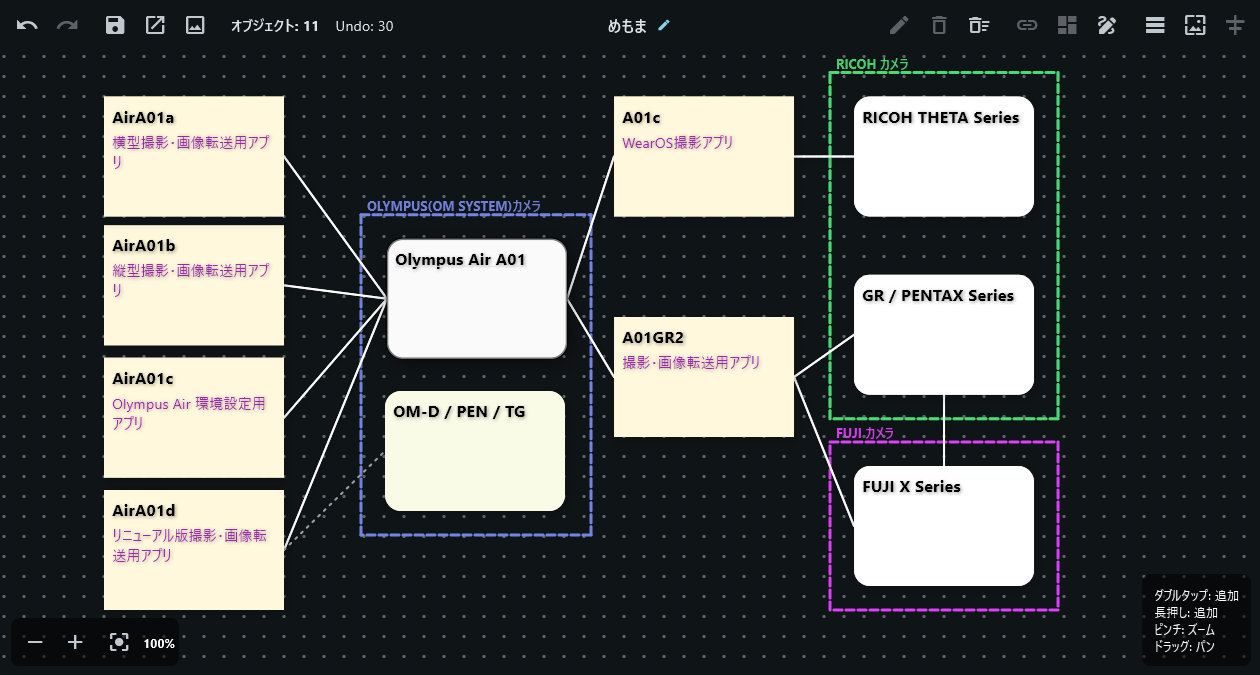
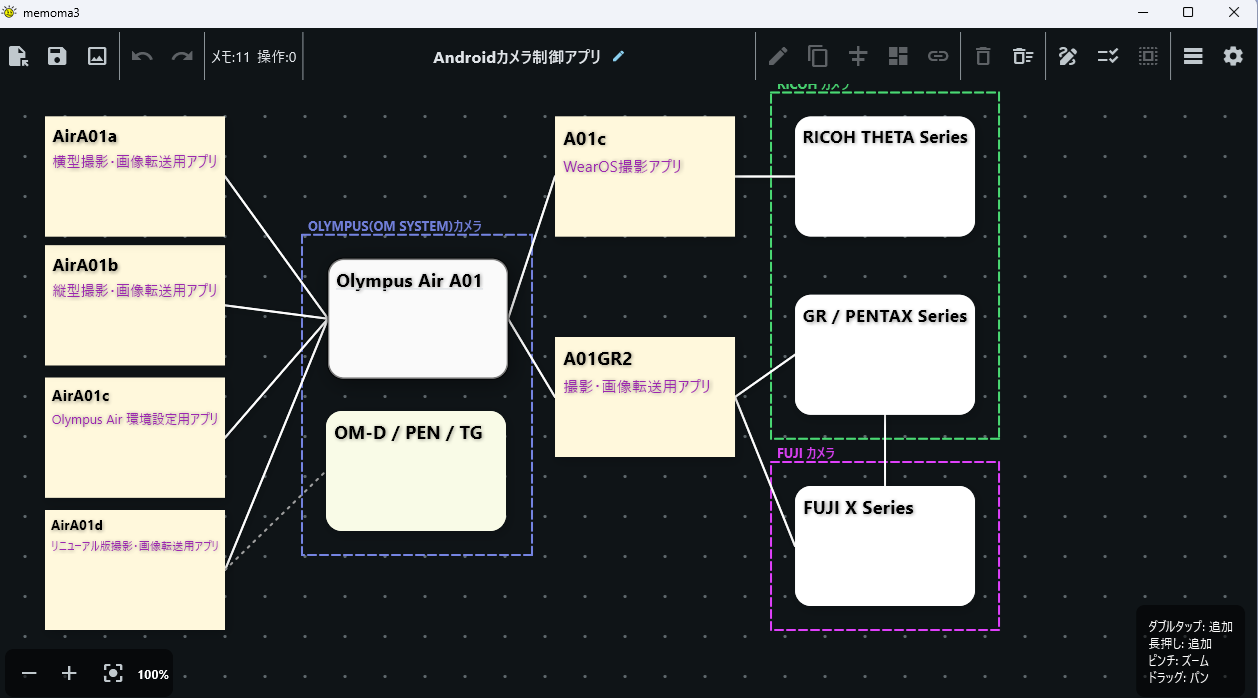
ドキュメンテーションの更新。

diff --git a/README.md b/README.md
@@ -271,15 +271,42 @@ lib/
 │   ├── storage_service.dart              # JSON ファイルの保存・読み込み
 │   ├── canvas_export_service.dart        # PNG / PDF エクスポート
 │   ├── background_persistence_service.dart # 背景設定の永続化
-│   └── canvas_persistence_service.dart   # キャンバス状態・キャンバス名の自動永続化（hive_ce）
+│   ├── canvas_persistence_service.dart   # キャンバス状態・キャンバス名の自動永続化（hive_ce）
+│   └── action_bar_page_persistence_service.dart # アクションバーのページ表示状態の永続化
 ├── providers/
-│   ├── canvas_provider.dart       # CanvasNotifier, CanvasNameNotifier, BackgroundConfigNotifier, AlignMode
-│   └── canvas_state.dart          # キャンバス全体の immutable な状態モデル
+│   ├── canvas_state.dart          # キャンバス全体の immutable な状態モデル
+│   ├── canvas_provider.dart       # CanvasNotifier（シェル）, CanvasNameNotifier, BackgroundConfigNotifier
+│   ├── canvas_id.dart             # ID 生成ヘルパー
+│   ├── canvas_object_core.dart    # CanvasObjectCore（フィールド + 基本 CRUD）
+│   ├── canvas_object_drag.dart    # CanvasObjectDrag（ドラッグ操作）
+│   ├── canvas_object_selection.dart # CanvasObjectSelection（選択操作）
+│   ├── canvas_object_align.dart   # CanvasObjectAlign（整列）+ AlignMode
+│   ├── canvas_connection_ops.dart # CanvasConnectionOps（接続線操作）
+│   ├── canvas_group_ops.dart      # CanvasGroupOps（グループ枠操作）
+│   └── canvas_history_ops.dart    # CanvasHistoryOps（Undo/Redo・JSON・生成）
 └── views/
-    ├── main_canvas_screen.dart    # InteractiveViewer を含むメイン画面
-    ├── object_list_screen.dart    # オブジェクト一覧画面（CSV エクスポート）
+    ├── main_canvas_screen.dart    # InteractiveViewer を含むメイン画面（シェル）
+    ├── main_canvas/               # メインキャンバスの実装
+    │   ├── main_canvas_state.dart     # MainCanvasState（ロジック mixin）
+    │   ├── main_canvas_ui.dart        # MainCanvasUi（UI mixin）
+    │   ├── zoom_control_panel.dart    # ズーム操作パネル
+    │   ├── build_hint_card.dart       # ビルド情報カード
+    │   ├── connection_menu_dialog.dart    # 接続線メニュー表示
+    │   └── connection_menu_positioner.dart # 接続線メニューの位置調整
+    ├── object_list_screen.dart    # オブジェクト一覧画面（シェル、CSV エクスポート）
+    ├── object_list/               # オブジェクト一覧の実装
+    │   ├── object_list_controller.dart    # フィルタ / ソート / CSV 生成
+    │   ├── object_list_edit_actions.dart  # 編集・ダイアログ系 mixin
+    │   ├── object_list_table_ui.dart      # テーブル UI mixin
+    │   ├── object_list_ui.dart            # 列定義・定数
+    │   ├── object_list_editable_label_cell.dart # セル内編集
+    │   ├── object_list_link_text_cell.dart      # URL リンクセル
+    │   ├── object_list_sort_header.dart         # ソートヘッダ
+    │   └── object_list_multi_select_dropdown.dart # 複数選択ドロップダウン
     └── widgets/
-        ├── top_action_bar.dart          # 上部ツールバー
+        ├── top_action_bar.dart          # 上部ツールバー（コンテナ）
+        ├── top_action_bar_left.dart     # 上部ツールバー左側（ファイル操作 / Undo / 状態表示）
+        ├── top_action_bar_right.dart    # 上部ツールバー右側（編集 / モード切替 / 一覧）
         ├── note_object_widget.dart      # 各オブジェクトの描画・ドラッグ操作
         ├── note_shape_painter.dart      # オブジェクト形状の描画 (CustomPainter)
         ├── object_edit_dialog.dart      # オブジェクト情報の編集ダイアログ
@@ -304,10 +331,12 @@ lib/
 | `services/canvas_export_service.dart` | `CanvasExportService` | キャンバスを PNG / PDF にエクスポート。 |
 | `services/background_persistence_service.dart` | `BackgroundPersistenceService` | 背景ガイド設定の `shared_preferences` への永続化・復元。 |
 | `services/canvas_persistence_service.dart` | `CanvasPersistenceService` | キャンバス状態・キャンバス名の `hive_ce` への自動・逐次永続化・復元（デバウンス付き）。 |
+| `services/action_bar_page_persistence_service.dart` | `ActionBarPagePersistenceService` | 幅が狭いときの `TopActionBar` の 2 ページ表示で、現在表示中のページ（左 / 右）を `shared_preferences` に記憶する。 |
 | `providers/canvas_state.dart` | `CanvasState` | オブジェクト・接続線・グループ・選択 ID・Undo/Redo 履歴スタック（最大 30 件）を保持する不変モデル。 |
-| `providers/canvas_provider.dart` | `CanvasNotifier` | オブジェクト・接続線・グループの CRUD、選択、整列、複製、Undo/Redo、JSON 復元/エクスポートを管理。最後に設定された形状を保持し、新規オブジェクトのデフォルト形状として使用する。 |
-| `views/main_canvas_screen.dart` | `MainCanvasScreen` | `InteractiveViewer` を用いたメイン画面。ダブルタップ/長押しでオブジェクト追加。左下にズーム制御パネルを配置。 |
-| `views/object_list_screen.dart` | `ObjectListScreen` | オブジェクト一覧画面。フィルタ・ソート・中心移動・複製・削除・CSV エクスポートを提供。 |
+| `providers/canvas_provider.dart` | `CanvasNotifier` | オブジェクト・接続線・グループの CRUD、選択、整列、複製、Undo/Redo、JSON 復元/エクスポートを管理。最後に設定された形状を保持し、新規オブジェクトのデフォルト形状として使用する。実装は 7 つの mixin（`canvas_object_core/drag/selection/align.dart`、`canvas_connection_ops.dart`、`canvas_group_ops.dart`、`canvas_history_ops.dart`）に分離。 |
+| `providers/canvas_id.dart` | `generateId` 等 | ID 生成ヘルパー（マイクロ秒 + カウンタで一意性を保証）。 |
+| `views/main_canvas_screen.dart` | `MainCanvasScreen` | `InteractiveViewer` を用いたメイン画面。ダブルタップ/長押しでオブジェクト追加。左下にズーム制御パネルを配置。ロジックは `main_canvas/main_canvas_state.dart`、UI は `main_canvas/main_canvas_ui.dart` に分離。 |
+| `views/object_list_screen.dart` | `ObjectListScreen` | オブジェクト一覧画面。フィルタ・ソート・中心移動・複製・削除・CSV エクスポートを提供。ロジックは `object_list/object_list_controller.dart`、編集系は `object_list/object_list_edit_actions.dart`、テーブル UI は `object_list/object_list_table_ui.dart` に分離。 |
 | `views/widgets/note_object_widget.dart` | `NoteObjectWidget` | 1 オブジェクトの描画とドラッグ操作。ズーム補正付き移動。接続モード時は接続先の検出用に使用。長押しで編集ダイアログを表示。選択モード時はタップで選択をトグル（複数選択）。 |
 | `views/widgets/note_shape_painter.dart` | `NoteShapePainter` | 形状（14 種）に応じた背景描画。選択時は四隅の枠線で強調。 |
 | `views/widgets/connection_painter.dart` | `ConnectionPainter` | 2 オブジェクト間を結ぶ接続線の描画。形状（6 種）と線種（4 種）・色に応じた描画。オブジェクトの境界間を結ぶパスを構築する。 |
@@ -317,7 +346,7 @@ lib/
 | `views/widgets/group_edit_dialog.dart` | `GroupEditDialog` | グループの名称・説明・枠線の色を編集するダイアログ。 |
 | `views/widgets/background_grid_painter.dart` | `BackgroundGridOverlay` | 背景グリッド（罫線/ドット）を描画するオーバーレイ。 |
 | `views/widgets/background_settings_dialog.dart` | `BackgroundSettingsDialog` | 背景ガイド（グリッド・背景色・背景画像）を設定するダイアログ。 |
-| `views/widgets/top_action_bar.dart` | `TopActionBar` | 操作カテゴリごとに区切り線で分類し、以下の順で配置: 読み込み/保存/画像・PDF () Undo/Redo () オブジェクト数/操作数 () キャンバス名 () 整列/接続/編集 () 削除/全削除 () グループ化/接続モード/選択モード/全選択 () オブジェクト一覧/背景ガイド設定。 |
+| `views/widgets/top_action_bar.dart` | `TopActionBar` | 操作カテゴリごとに区切り線で分類し、以下の順で配置: 読み込み/保存/画像・PDF () Undo/Redo () オブジェクト数/操作数 () キャンバス名 () 整列/接続/編集 () 削除/全削除 () グループ化/接続モード/選択モード/全選択 () オブジェクト一覧/背景ガイド設定。幅が狭い場合は 2 ページ表示に切替。左側は `top_action_bar_left.dart`、右側は `top_action_bar_right.dart` に分離。 |
 | `views/widgets/object_edit_dialog.dart` | `ObjectEditDialog` | 選択中のオブジェクトの形状・強調・ラベル・詳細・説明・色・ラベル色・説明色・サイズ（0.5〜4倍）・ラベル/説明の文字サイズ（1〜5段階）を編集するダイアログ。`MyCustomColorPicker` を使用。 |
 | `views/widgets/my_custom_color_picker.dart` | `MyCustomColorPicker` | `flex_color_picker` の `ColorPicker` をラップする共通カラーピッカー。カラーホイール・シェード選択・カラーコード・コピー＆ペースト・OK/キャンセルボタンを有効化。全色選択箇所で使用。 |
 

diff --git a/docs/DETAILED_DESIGN.md b/docs/DETAILED_DESIGN.md
@@ -71,16 +71,20 @@
 ### 2.2 `CanvasNotifier`（`providers/canvas_provider.dart`）
 
 - **役割**: キャンバス状態を管理する `Notifier`。オブジェクト・接続線・グループの CRUD、選択、整列、Undo/Redo、ドラッグ中のローカル状態を担当。
-- **ドラッグ関連フィールド**: `localDraftPositions`, `dragStartPositions`, `dragStartCanvas`, `lastAddedId`, `lastShape`。
-- **主要メソッド**:
-  - **オブジェクト**: `addObject`, `updatePosition`, `endDrag`, `setPosition`, `cancelDrag`, `resetDraft`, `clearLocalDrafts`, `bringToFront`, `editObject`, `deleteObject`, `deleteSelected`, `deleteAllObjects`, `makeNewNote`, `updateLastShape`, `duplicateSelected`（選択分複製、右下 20px ずらし・接続線/グループ非引き継ぎ）, `duplicateObject`（単一オブジェクト複製、一覧行用）。
-  - **選択**: `selectObject`, `toggleSelect`, `selectAll`, `clearSelection`, `_setAllSelected`。
-  - **整列**: `alignSelectedToStep`, `alignSelected`。
-  - **接続線**: `addConnection`, `connectSelected`, `updateConnection`, `deleteConnection`。
-  - **グループ**: `createGroup`, `addToGroup`, `updateGroup`, `deleteGroup`, `moveGroup`, `endGroupDrag`, `resetGroupDrafts`。
-  - **Undo/Redo**: `undo`, `redo`。
-  - **永続化**: `loadFromJson`, `exportToJson`, `_deduplicateConnectionIds`, `_deduplicateGroupIds`。
-  - **内部**: `_snap`（位置の丸め）。
+- **構成**: 実装は 7 つの mixin に分離されている（`canvas_provider.dart` 自体は薄いシェル）。
+
+| mixin | ファイル | 担当 |
+| --- | --- | --- |
+| `CanvasObjectCore` | `providers/canvas_object_core.dart` | 共有フィールド（`localDraftPositions`, `dragStartPositions`, `dragStartCanvas`, `lastAddedId`, `lastShape`）と基本 CRUD（`addObject`, `editObject`, `bringToFront`, `deleteSelected`, `duplicateSelected`（選択分複製、右下 20px ずらし・接続線/グループ非引き継ぎ）, `duplicateObject`（単一オブジェクト複製、一覧行用）, `deleteObject`, `deleteAllObjects`, `updateLastShape`） |
+| `CanvasObjectDrag` | `providers/canvas_object_drag.dart` | ドラッグ操作（`updatePosition`, `endDrag`, `setPosition`, `cancelDrag`, `resetDraft`, `resetGroupDrafts`, `clearLocalDrafts`） |
+| `CanvasObjectSelection` | `providers/canvas_object_selection.dart` | 選択操作（`selectObject`, `toggleSelect`, `selectedCount`, `selectAll`, `clearSelection`） |
+| `CanvasObjectAlign` | `providers/canvas_object_align.dart` | 整列（`alignSelectedToStep`, `alignSelected`）と `AlignMode` 列挙型 |
+| `CanvasConnectionOps` | `providers/canvas_connection_ops.dart` | 接続線（`addConnection`, `connectSelected`, `updateConnection`, `deleteConnection`） |
+| `CanvasGroupOps` | `providers/canvas_group_ops.dart` | グループ（`createGroup`, `addToGroup`, `updateGroup`, `deleteGroup`, `moveGroup`, `endGroupDrag`） |
+| `CanvasHistoryOps` | `providers/canvas_history_ops.dart` | 履歴・データ（`undo`, `redo`, `loadFromJson`, `exportToJson`, `makeNewNote`） |
+
+- **ID 生成**: `providers/canvas_id.dart` の `generateId` / `generateConnectionId` / `generateGroupId`（マイクロ秒 + カウンタで一意性を保証）。
+- **内部ヘルパー**: `_snap`（位置の丸め、`CanvasObjectAlign` 内）、`_setAllSelected`（`CanvasObjectSelection` 内）、`_deduplicateConnectionIds` / `_deduplicateGroupIds`（`CanvasHistoryOps` 内）。
 
 ### 2.3 `CanvasNameNotifier`（`providers/canvas_provider.dart`）
 
@@ -92,10 +96,11 @@
 - **役割**: 背景ガイド設定を管理する `Notifier`。`shared_preferences` への永続化と復元を担当。
 - **状態**: `BackgroundConfig`。
 
-### 2.5 `AlignMode`（`providers/canvas_provider.dart`）
+### 2.5 `AlignMode`（`providers/canvas_object_align.dart`）
 
 - **役割**: 整列モードを列挙。
 - **値**: `left`, `right`, `top`, `bottom`, `distributeHorizontal`, `distributeVertical`。
+- **備考**: `canvas_provider.dart` が `export ... show AlignMode;` により再エクスポートしているため、従来どおり `canvas_provider.dart` 経由で参照できる。
 
 ## 3. services（I/O・永続化層）
 
@@ -127,29 +132,47 @@
 - **接続**: `MainCanvasScreen` が `ref.listen(canvasNotifierProvider, ...)` で状態変更を検知し `scheduleSaveState` を呼ぶ。`didChangeAppLifecycleState` で `paused` / `hidden` 時に `flush()`。起動時 `initState` で `loadName` / `loadState` を復元。
 - **初期化**: `main.dart` で `Hive.init`（Web はパス不要、それ以外は `path_provider` のアプリケーションサポートディレクトリ）。
 
+### 3.5 `ActionBarPagePersistenceService`（`services/action_bar_page_persistence_service.dart`）
+
+- **役割**: 幅が狭いときの `TopActionBar` の 2 ページ表示で、現在表示中のページ（左 / 右）を `shared_preferences` に記憶する。
+- **キー**: `memoma3.action_bar_page`。
+- **主要メソッド**: `load()` / `save()`。
+
 ## 4. views（画面層）
 
 ### 4.1 `MainCanvasScreen`（`views/main_canvas_screen.dart`）
 
 - **役割**: アプリのメイン画面。キャンバスの描画、パン・ズーム、オブジェクト操作、接続モード、整列、エクスポート、背景設定の入口。
 - **定数**: `kCanvasSize = Size(50000, 50000)`。
+- **構成**: state クラスは 2 つの mixin に分離されている（`main_canvas_screen.dart` 自体は薄いシェル）。
+  - `MainCanvasState`（`views/main_canvas/main_canvas_state.dart`）: フィールド・ライフサイクル・座標変換・モード切替・グループ枠・接続線ロジック。
+  - `MainCanvasUi`（`views/main_canvas/main_canvas_ui.dart`）: `build`（Scaffold / TopActionBar / キャンバス描画）。
 - **描画順序（Z 順）**: 背景色 → 背景画像 → グリッド → グループ枠 → 接続線 → オブジェクト。
-- **内部ウィジェット**: `_ZoomControlPanel`（ズーム操作パネル）。
+- **関連ウィジェット**（`views/main_canvas/`）: `ZoomControlPanel`（ズーム操作パネル）、`BuildHintCard`（ビルド情報カード）、`ConnectionMenuPositioner`（接続線メニューの位置調整）、`showConnectionMenuDialog`（接続線コンテキストメニュー表示）。
 
 ### 4.2 `ObjectListScreen`（`views/object_list_screen.dart`）
 
 - **役割**: オブジェクト一覧画面。全オブジェクトの属性を表示・編集し、CSV エクスポートを提供。
+- **構成**: state クラスは 2 つの mixin に分離され、ロジックは `ObjectListController`（`views/object_list/object_list_controller.dart`）に集約されている。
+  - `ObjectListEditActions`（`views/object_list/object_list_edit_actions.dart`）: 編集・ダイアログ系メソッド。
+  - `ObjectListTableUi`（`views/object_list/object_list_table_ui.dart`）: テーブル・フィルタバーの UI 構築。
+  - `ObjectListController`: フィルタ / ソート / CSV 生成（`filteredAndSorted`, `buildCsv`, `colorToHex` 等）。
 - **列**: No. / 名称（左固定）+ 説明 / 詳細 / グループ / 形状 / 強調 / 色 / 接続(from/to) / X / Y / サイズ / 中心 / 複製 / 削除（右スクロール）。
 - **フィルタ**: 名称（テキスト）、形状（複数選択）、強調（複数選択）。
 - **ソート**: 列ヘッダクリックで昇降順切替（サイズ列もソート対象）。
 - **複製**: 行の「複製」ボタンで `duplicateObject(id)` を呼び、そのオブジェクトを複製（右下 20px ずらし）。
-- **CSV**: `_buildCsv`（UTF-8 BOM 付き、`_csvEscape` でエスケープ、`_colorToHex` で #RRGGBB、サイズ列は `1.0倍` 形式）。
+- **CSV**: `ObjectListController.buildCsv`（UTF-8 BOM 付き、`_csvEscape` でエスケープ、`colorToHex` で #RRGGBB、サイズ列は `1.0倍` 形式）。
+- **関連ウィジェット**（`views/object_list/`）: `EditableLabelCell`（セル内編集）、`LinkTextCell`（URL リンク）、`SortHeader`（ソートヘッダ）、`MultiSelectDropdown`（複数選択ドロップダウン）。
 
 ## 5. widgets（部品層）
 
 ### 5.1 `TopActionBar`（`widgets/top_action_bar.dart`）
 
 - **役割**: 上部アクションバー。操作カテゴリごとに区切り線で分類し、以下の順で配置: 読み込み / 保存 / 画像・PDF エクスポート | Undo / Redo | オブジェクト数 / 操作数 | キャンバス名 | 整列 / 接続 / 編集 | 削除 / 全削除 | グループ化 / 接続モード / 選択モード / 全選択 | オブジェクト一覧 / 背景ガイド設定。
+- **構成**: 幅が広い場合は 1 行表示、狭い場合は 2 ページ表示（`kActionBarMinWidth = 1200.0` を基準に切替）。
+  - `TopActionBarLeft`（`widgets/top_action_bar_left.dart`）: 読み込み / 保存 / Undo / Redo / 状態表示 / キャンバス名。
+  - `TopActionBarRight`（`widgets/top_action_bar_right.dart`）: 整列 / 接続 / 編集 / 削除 / モード切替 / 一覧 / 背景設定。
+  - ページ表示の左右位置は `ActionBarPagePersistenceService`（`services/action_bar_page_persistence_service.dart`）で記憶される。
 - **選択モード**: 「選択モード」ボタンでキーボードのない環境向けの複数選択モードを切替。「全選択」ボタンは常時表示され、選択モード中かつオブジェクトがあるときのみ有効。
 
 ### 5.2 `NoteObjectWidget`（`widgets/note_object_widget.dart`）

diff --git a/docs/DEVELOPMENT.md b/docs/DEVELOPMENT.md
@@ -41,17 +41,44 @@ memoma3/
 │   │   └── background_config.dart# BackgroundConfig, GridType
 │   ├── providers/                # 状態・ロジック層
 │   │   ├── canvas_state.dart     # CanvasState
-│   │   └── canvas_provider.dart  # CanvasNotifier, CanvasNameNotifier, BackgroundConfigNotifier, AlignMode
+│   │   ├── canvas_provider.dart  # CanvasNotifier（シェル）, CanvasNameNotifier, BackgroundConfigNotifier
+│   │   ├── canvas_id.dart        # ID 生成ヘルパー
+│   │   ├── canvas_object_core.dart     # CanvasObjectCore（フィールド + 基本 CRUD）
+│   │   ├── canvas_object_drag.dart     # CanvasObjectDrag（ドラッグ操作）
+│   │   ├── canvas_object_selection.dart# CanvasObjectSelection（選択操作）
+│   │   ├── canvas_object_align.dart    # CanvasObjectAlign（整列）+ AlignMode
+│   │   ├── canvas_connection_ops.dart  # CanvasConnectionOps（接続線操作）
+│   │   ├── canvas_group_ops.dart       # CanvasGroupOps（グループ枠操作）
+│   │   └── canvas_history_ops.dart     # CanvasHistoryOps（Undo/Redo・JSON・生成）
 │   ├── services/                 # I/O・永続化層
 │   │   ├── storage_service.dart          # JSON 保存・読み込み
 │   │   ├── canvas_export_service.dart    # PNG / PDF エクスポート
 │   │   ├── background_persistence_service.dart # 背景設定の永続化
-│   │   └── canvas_persistence_service.dart # キャンバス状態・キャンバス名の自動永続化（hive_ce）
+│   │   ├── canvas_persistence_service.dart # キャンバス状態・キャンバス名の自動永続化（hive_ce）
+│   │   └── action_bar_page_persistence_service.dart # アクションバーのページ表示状態の永続化
 │   ├── views/                    # 画面層
-│   │   ├── main_canvas_screen.dart       # メインキャンバス画面
-│   │   ├── object_list_screen.dart       # オブジェクト一覧画面
+│   │   ├── main_canvas_screen.dart       # メインキャンバス画面（シェル）
+│   │   ├── main_canvas/                  # メインキャンバスの実装
+│   │   │   ├── main_canvas_state.dart    # MainCanvasState（ロジック mixin）
+│   │   │   ├── main_canvas_ui.dart       # MainCanvasUi（UI mixin）
+│   │   │   ├── zoom_control_panel.dart   # ズーム操作パネル
+│   │   │   ├── build_hint_card.dart      # ビルド情報カード
+│   │   │   ├── connection_menu_dialog.dart     # 接続線メニュー表示
+│   │   │   └── connection_menu_positioner.dart # 接続線メニューの位置調整
+│   │   ├── object_list_screen.dart       # オブジェクト一覧画面（シェル）
+│   │   ├── object_list/                  # オブジェクト一覧の実装
+│   │   │   ├── object_list_controller.dart     # フィルタ / ソート / CSV 生成
+│   │   │   ├── object_list_edit_actions.dart   # 編集・ダイアログ系 mixin
+│   │   │   ├── object_list_table_ui.dart       # テーブル UI mixin
+│   │   │   ├── object_list_ui.dart             # 列定義・定数
+│   │   │   ├── object_list_editable_label_cell.dart # セル内編集
+│   │   │   ├── object_list_link_text_cell.dart     # URL リンクセル
+│   │   │   ├── object_list_sort_header.dart        # ソートヘッダ
+│   │   │   └── object_list_multi_select_dropdown.dart # 複数選択ドロップダウン
 │   │   └── widgets/              # 部品層
 │   │       ├── top_action_bar.dart
+│   │       ├── top_action_bar_left.dart
+│   │       ├── top_action_bar_right.dart
 │   │       ├── note_object_widget.dart
 │   │       ├── note_shape_painter.dart
 │   │       ├── object_edit_dialog.dart

diff --git a/docs/ARCHITECTURE.md b/docs/ARCHITECTURE.md
@@ -22,7 +22,8 @@
 │  services  (I/O・永続化層)                                │
 │  StorageService, CanvasExportService,                    │
 │  BackgroundPersistenceService,                           │
-│  CanvasPersistenceService                                │
+│  CanvasPersistenceService,                               │
+│  ActionBarPagePersistenceService                         │
 ├─────────────────────────────────────────────────────────┤
 │  models  (データ層)                                       │
 │  NoteObject, Connection, GroupFrame, BackgroundConfig    │
@@ -149,15 +150,20 @@ BackgroundConfig
 
 ### 4.2 CanvasNotifier の主なメソッド
 
-| カテゴリ | メソッド |
-| --- | --- |
-| オブジェクト | `addObject`, `updatePosition`, `endDrag`, `setPosition`, `bringToFront`, `editObject`, `deleteObject`, `deleteSelected`, `deleteAllObjects`, `makeNewNote`, `duplicateSelected`, `duplicateObject` |
-| 選択 | `selectObject`, `toggleSelect`, `selectAll`, `clearSelection`, `_setAllSelected` |
-| 整列 | `alignSelectedToStep`, `alignSelected` |
-| 接続線 | `addConnection`, `connectSelected`, `updateConnection`, `deleteConnection` |
-| グループ | `createGroup`, `addToGroup`, `updateGroup`, `deleteGroup`, `moveGroup`, `endGroupDrag`, `resetGroupDrafts` |
-| Undo/Redo | `undo`, `redo` |
-| 永続化 | `loadFromJson`, `exportToJson` |
+`CanvasNotifier`（`providers/canvas_provider.dart`）は薄いシェルで、実装は 7 つの mixin に分離されている。
+
+| カテゴリ | mixin（ファイル） | メソッド |
+| --- | --- | --- |
+| オブジェクト（基本） | `CanvasObjectCore`（`canvas_object_core.dart`） | `addObject`, `editObject`, `bringToFront`, `deleteSelected`, `deleteAllObjects`, `duplicateSelected`, `duplicateObject`, `deleteObject`, `updateLastShape` |
+| オブジェクト（ドラッグ） | `CanvasObjectDrag`（`canvas_object_drag.dart`） | `updatePosition`, `endDrag`, `setPosition`, `cancelDrag`, `resetDraft`, `resetGroupDrafts`, `clearLocalDrafts` |
+| 選択 | `CanvasObjectSelection`（`canvas_object_selection.dart`） | `selectObject`, `toggleSelect`, `selectedCount`, `selectAll`, `clearSelection` |
+| 整列 | `CanvasObjectAlign`（`canvas_object_align.dart`） | `alignSelectedToStep`, `alignSelected`（+ `AlignMode` 列挙型） |
+| 接続線 | `CanvasConnectionOps`（`canvas_connection_ops.dart`） | `addConnection`, `connectSelected`, `updateConnection`, `deleteConnection` |
+| グループ | `CanvasGroupOps`（`canvas_group_ops.dart`） | `createGroup`, `addToGroup`, `updateGroup`, `deleteGroup`, `moveGroup`, `endGroupDrag` |
+| Undo/Redo | `CanvasHistoryOps`（`canvas_history_ops.dart`） | `undo`, `redo` |
+| 永続化 | `CanvasHistoryOps`（`canvas_history_ops.dart`） | `loadFromJson`, `exportToJson`, `makeNewNote` |
+
+- **ID 生成**: `providers/canvas_id.dart` の `generateId` / `generateConnectionId` / `generateGroupId`。
 
 ### 4.3 ドラッグ中の状態管理
 
@@ -206,6 +212,7 @@ BackgroundConfig
 | キャンバス状態（エクスポート用） | JSON ファイル | ユーザー選択のファイル（`file_picker`） |
 | キャンバス名 | `hive_ce`（自動） | アプリ内部の永続化領域（`memoma3_canvas` box） |
 | 背景ガイド設定 | `shared_preferences` | アプリ内部の永続化領域 |
+| アクションバーの表示ページ（左 / 右） | `shared_preferences` | アプリ内部の永続化領域（`memoma3.action_bar_page`） |
 
 ### 6.1 自動永続化（`hive_ce`）
 

diff --git a/docs/CSV.md b/docs/CSV.md
@@ -7,7 +7,7 @@
 - **形式**: RFC 4180 準拠の CSV（カンマ区切り）。
 - **エンコーディング**: UTF-8（**BOM 付き**）。Excel で正しく開けるよう、ファイル先頭に `\uFEFF`（UTF-8 BOM）を付与します。
 - **改行**: 各行の末尾に改行（`writeln`）を付与します。
-- **出力元**: `lib/views/object_list_screen.dart` の `_buildCsv`。
+- **出力元**: `lib/views/object_list/object_list_controller.dart` の `ObjectListController.buildCsv`（`lib/views/object_list_screen.dart` から呼び出し）。
 - **保存**: `StorageService.saveCanvas`（`file_picker`）で、拡張子 `csv` のファイルとして保存します。ファイル名はキャンバス名を使用します。
 
 ## 2. 列定義
@@ -39,7 +39,7 @@
 
 ## 3. エスケープ規則
 
-`_csvEscape` により、以下のいずれかの文字を含むフィールドは、ダブルクォート（`"`）で囲まれ、内部のダブルクォートは 2 つ（`""`）にエスケープされます。
+`ObjectListController._csvEscape` により、以下のいずれかの文字を含むフィールドは、ダブルクォート（`"`）で囲まれ、内部のダブルクォートは 2 つ（`""`）にエスケープされます。
 
 - カンマ（`,`）
 - ダブルクォート（`"`）
@@ -53,7 +53,7 @@
 
 ## 4. 色の形式
 
-`_colorToHex` により、`Color` を `#RRGGBB` 形式（大文字 16 進）に変換します。アルファ値は含めません。
+`ObjectListController.colorToHex` により、`Color` を `#RRGGBB` 形式（大文字 16 進）に変換します。アルファ値は含めません。
 
 ```text
 例:  #FF5733, #000000, #FFFFFF
